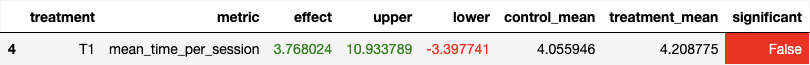
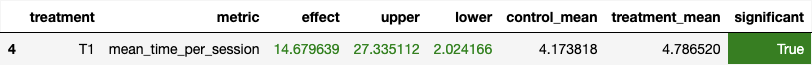
Make results significant

diff --git a/botify/botify/recommenders/my_recommender.py b/botify/botify/recommenders/my_recommender.py
@@ -3,10 +3,11 @@ import random
 
 
 class MyRecommender(Recommender):
-    def __init__(self, recommendations_dssm_redis, recommendations_contextual_redis, top_tracks, catalog, fallback):
+    def __init__(self, recommendations_dssm_redis, recommendations_contextual_redis, top_tracks, tracks_with_recs, catalog, fallback):
         self.recommendations_dssm_redis = recommendations_dssm_redis
         self.recommendations_contextual_redis = recommendations_contextual_redis
         self.top_tracks = top_tracks
+        self.tracks_with_recs = tracks_with_recs
         self.catalog = catalog
         self.fallback = fallback
 
@@ -28,13 +29,42 @@ class MyRecommender(Recommender):
 
     def recommend_next(self, user: int, prev_track: int, prev_track_time: float) -> int:
         dssm_recommendations = self._get_dssm_recommendations(user)
+        contextual_recommendations = self._get_contextual_recommendations(prev_track)
+
+        recs_by_tracks = None
+        for track in self.tracks_with_recs:
+            if track.track == prev_track:
+                recs_by_tracks = track.recommendations
+                break
+
+        all_recommendations = set(dssm_recommendations if dssm_recommendations else [])
+        if contextual_recommendations:
+            all_recommendations.update(contextual_recommendations)
+        if recs_by_tracks:
+            all_recommendations.update(recs_by_tracks)
+
+        all_recommendations_list = list(all_recommendations)
+
         if dssm_recommendations:
-            total_popularity = sum(self._get_track_info(track_id).pop for track_id in dssm_recommendations)
-            weighted_choices = [(track_id, self._get_track_info(track_id).pop / total_popularity) for track_id in dssm_recommendations]
-            chosen_track = random.choices([track for track, weight in weighted_choices], [weight for track, weight in weighted_choices], k=1)[0]
+            weights = []
+            for track_id in all_recommendations_list:
+                f1 = track_id in contextual_recommendations
+                f2 = track_id in recs_by_tracks
+                f3 = track_id in dssm_recommendations
+
+                if f1 + f2 + f3 == 3:
+                    weights.append(3 * self._get_track_info(track_id).pop)
+                elif f1 + f2 + f3 == 2:
+                    weights.append(2 * self._get_track_info(track_id).pop)
+                else:
+                    weights.append(1 * self._get_track_info(track_id).pop)
+            
+            total_weight = sum(weights)
+            normalized_weights = [weight / total_weight for weight in weights]
+
+            chosen_track = random.choices(all_recommendations_list, weights=normalized_weights, k=1)[0]
             return chosen_track
 
-        contextual_recommendations = self._get_contextual_recommendations(prev_track)
         if contextual_recommendations:
             return max(contextual_recommendations, key=lambda track_id: self._get_track_info(track_id).pop)
 

diff --git a/botify/botify/server.py b/botify/botify/server.py
@@ -17,7 +17,7 @@ from botify.recommenders.contextual import Contextual
 from botify.recommenders.toppop import TopPop
 from botify.recommenders.sticky_artist import StickyArtist
 from botify.recommenders.my_recommender import MyRecommender
-from botify.track import Catalog
+from botify.track import Catalog, Track
 
 root = logging.getLogger()
 root.setLevel("INFO")
@@ -63,6 +63,21 @@ catalog.upload_recommendations(
 )
 
 top_tracks = TopPop.load_from_json(app.config["TOP_TRACKS"])
+tracks_with_recs = []
+
+with open(app.config["TRACK_RECS"]) as catalog_file:
+    for j, line in enumerate(catalog_file):
+        data = json.loads(line)
+        tracks_with_recs.append(
+            Track(
+                data["track"],
+                data["artist"],
+                data["title"],
+                data["genre"] if data["genre"] else "",
+                data["pop"],
+                data.get("recommendations", []),
+            )
+        )
 
 parser = reqparse.RequestParser()
 parser.add_argument("track", type=int, location="json", required=True)
@@ -99,6 +114,7 @@ class NextTrack(Resource):
                 recommendations_dssm.connection, 
                 recommendations_contextual.connection, 
                 top_tracks,
+                tracks_with_recs,
                 catalog, 
                 Random(tracks_redis.connection)
             )

diff --git a/hw2/Readme.md b/hw2/Readme.md
@@ -1,6 +1,6 @@
 ## Идея
 
-Основная идея достаточно простая - не просто выбирать какой-то трек из dsmm или контекстных рекомендаций, а делать взвешанный случайный выбор. То есть я использую популярность трека для задания распределения вероятностей. Также на всякий случай используй top треки, если вдруг рекомендаций нет.
+Основная идея достаточно простая - не просто выбирать какой-то трек из dsmm или контекстных рекомендаций, а делать взвешанный случайный выбор. То есть я использую популярность трека для задания распределения вероятностей, а также умножаю её на количество списков рекомендаций, в который этот трек попал. Также на всякий случай используй top треки, если вдруг рекомендаций нет.
 
 ## Детали реализации
 
